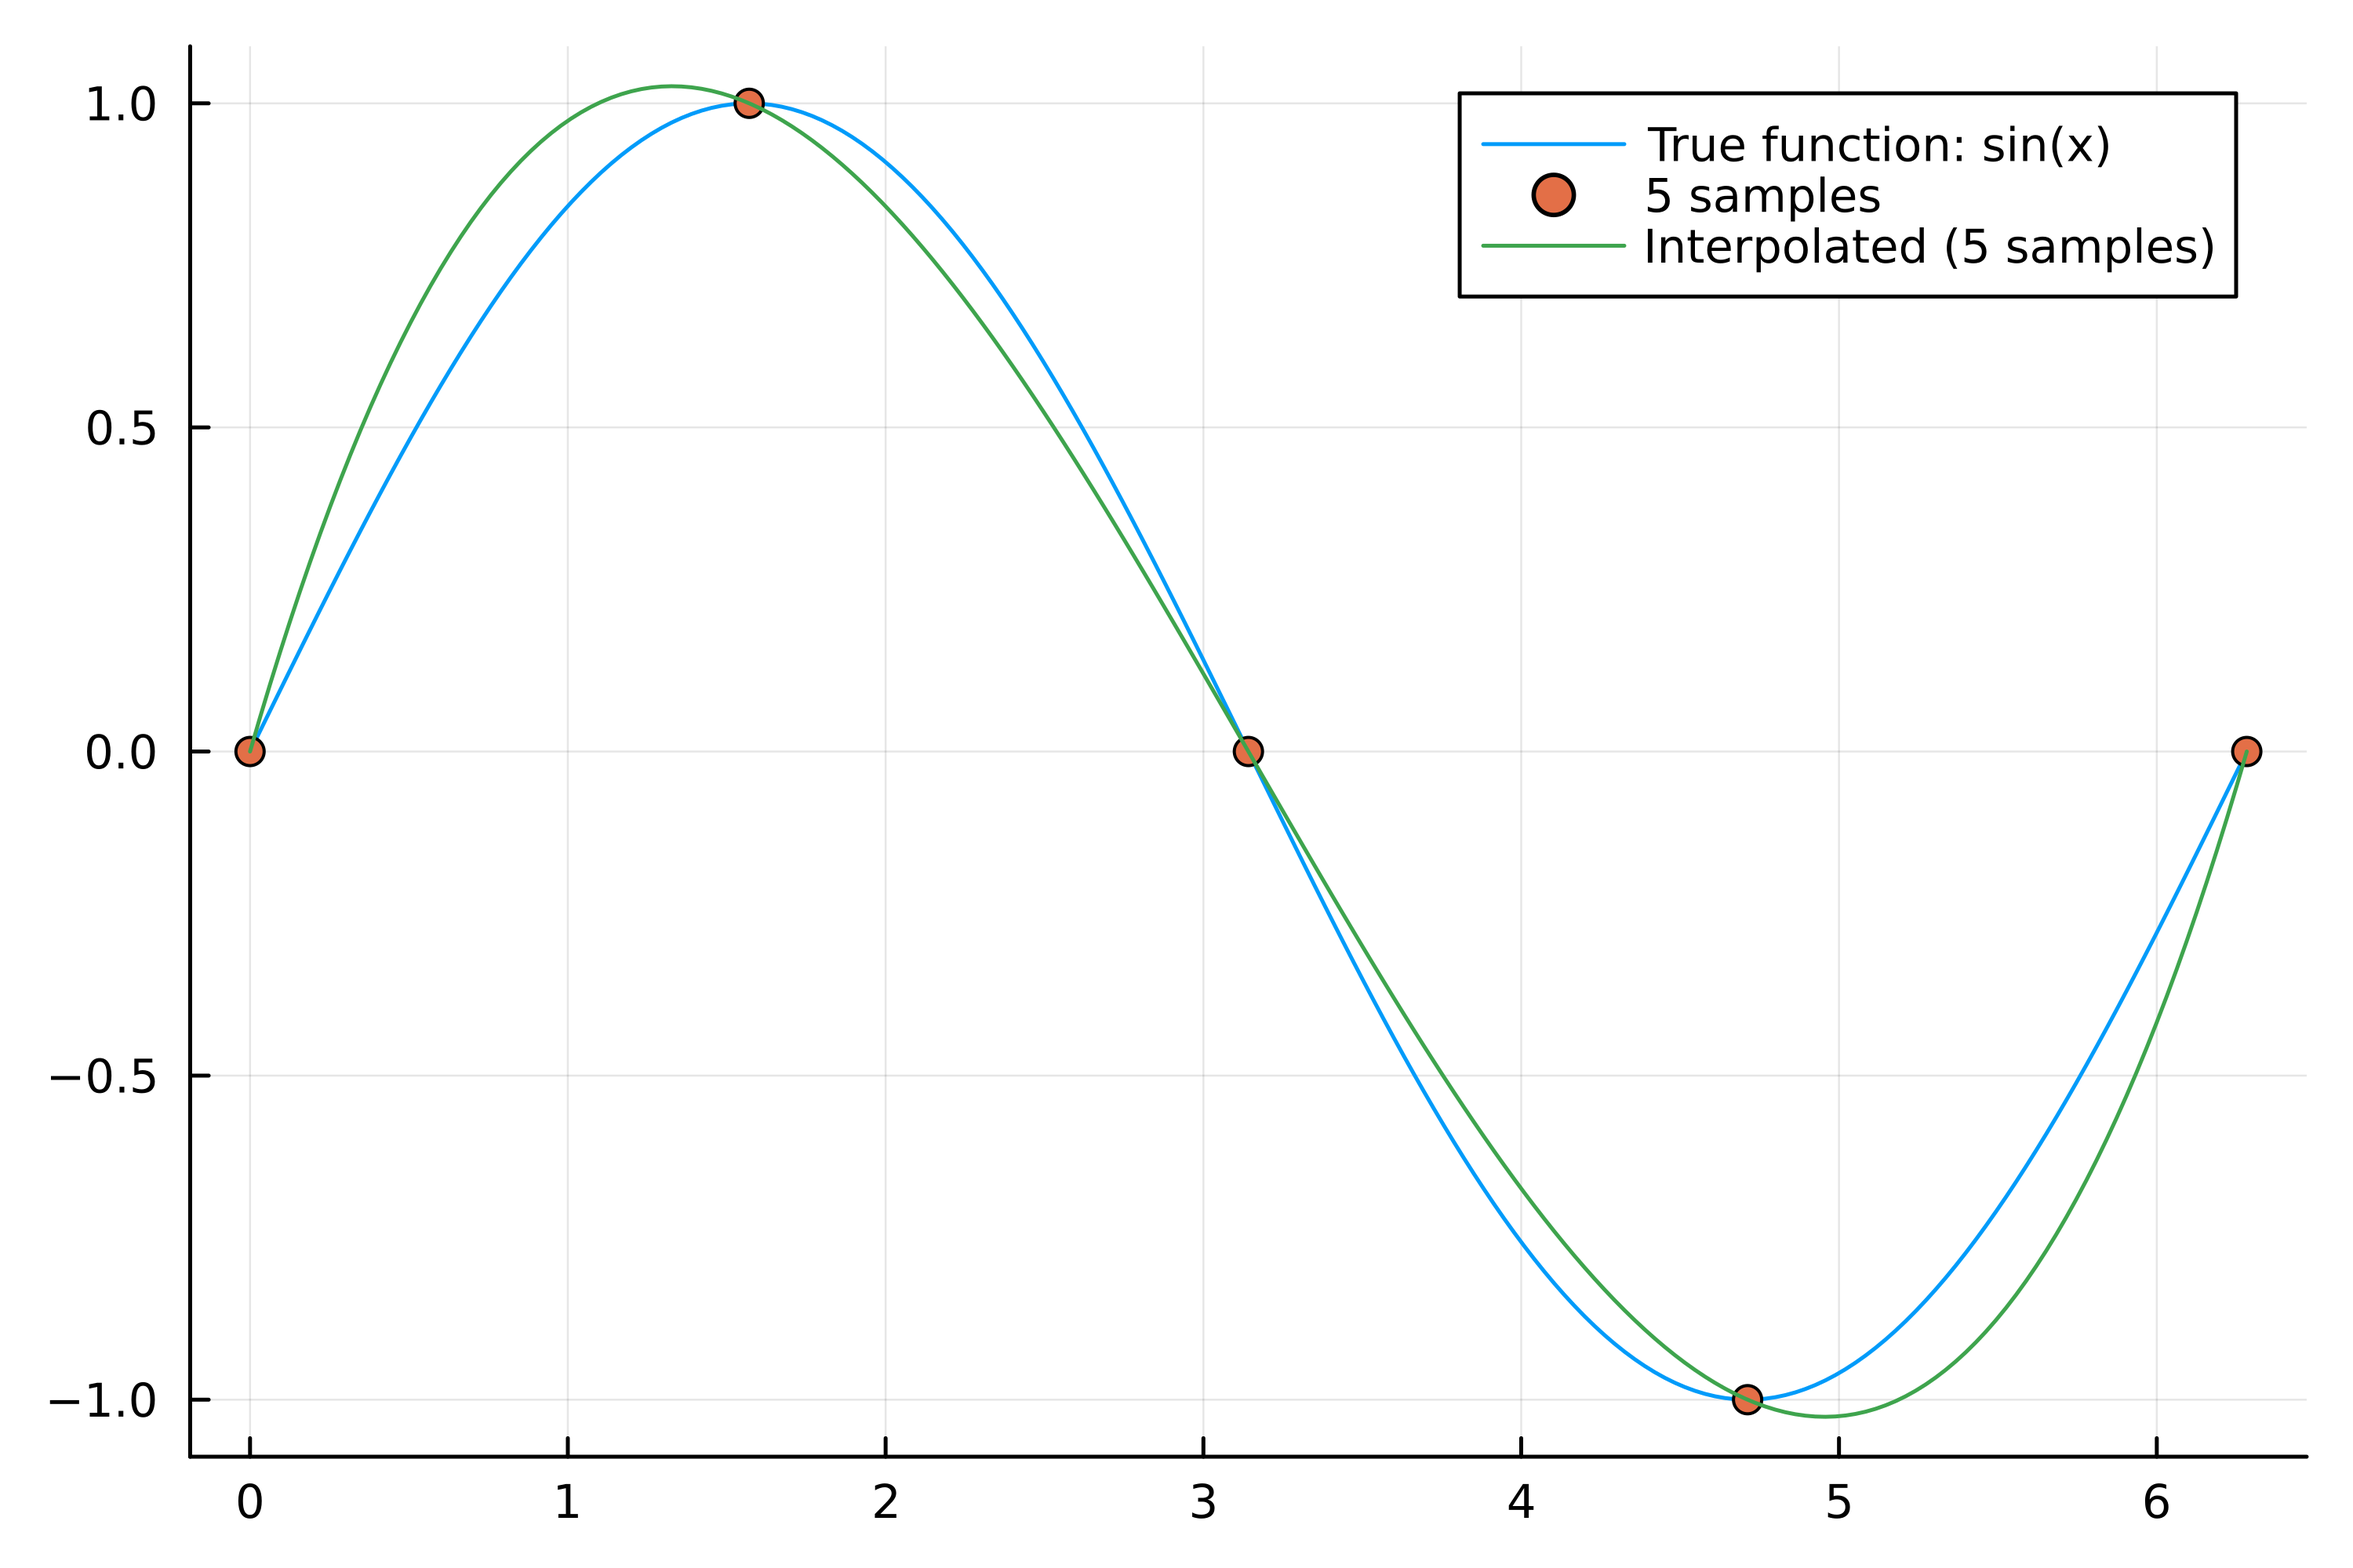
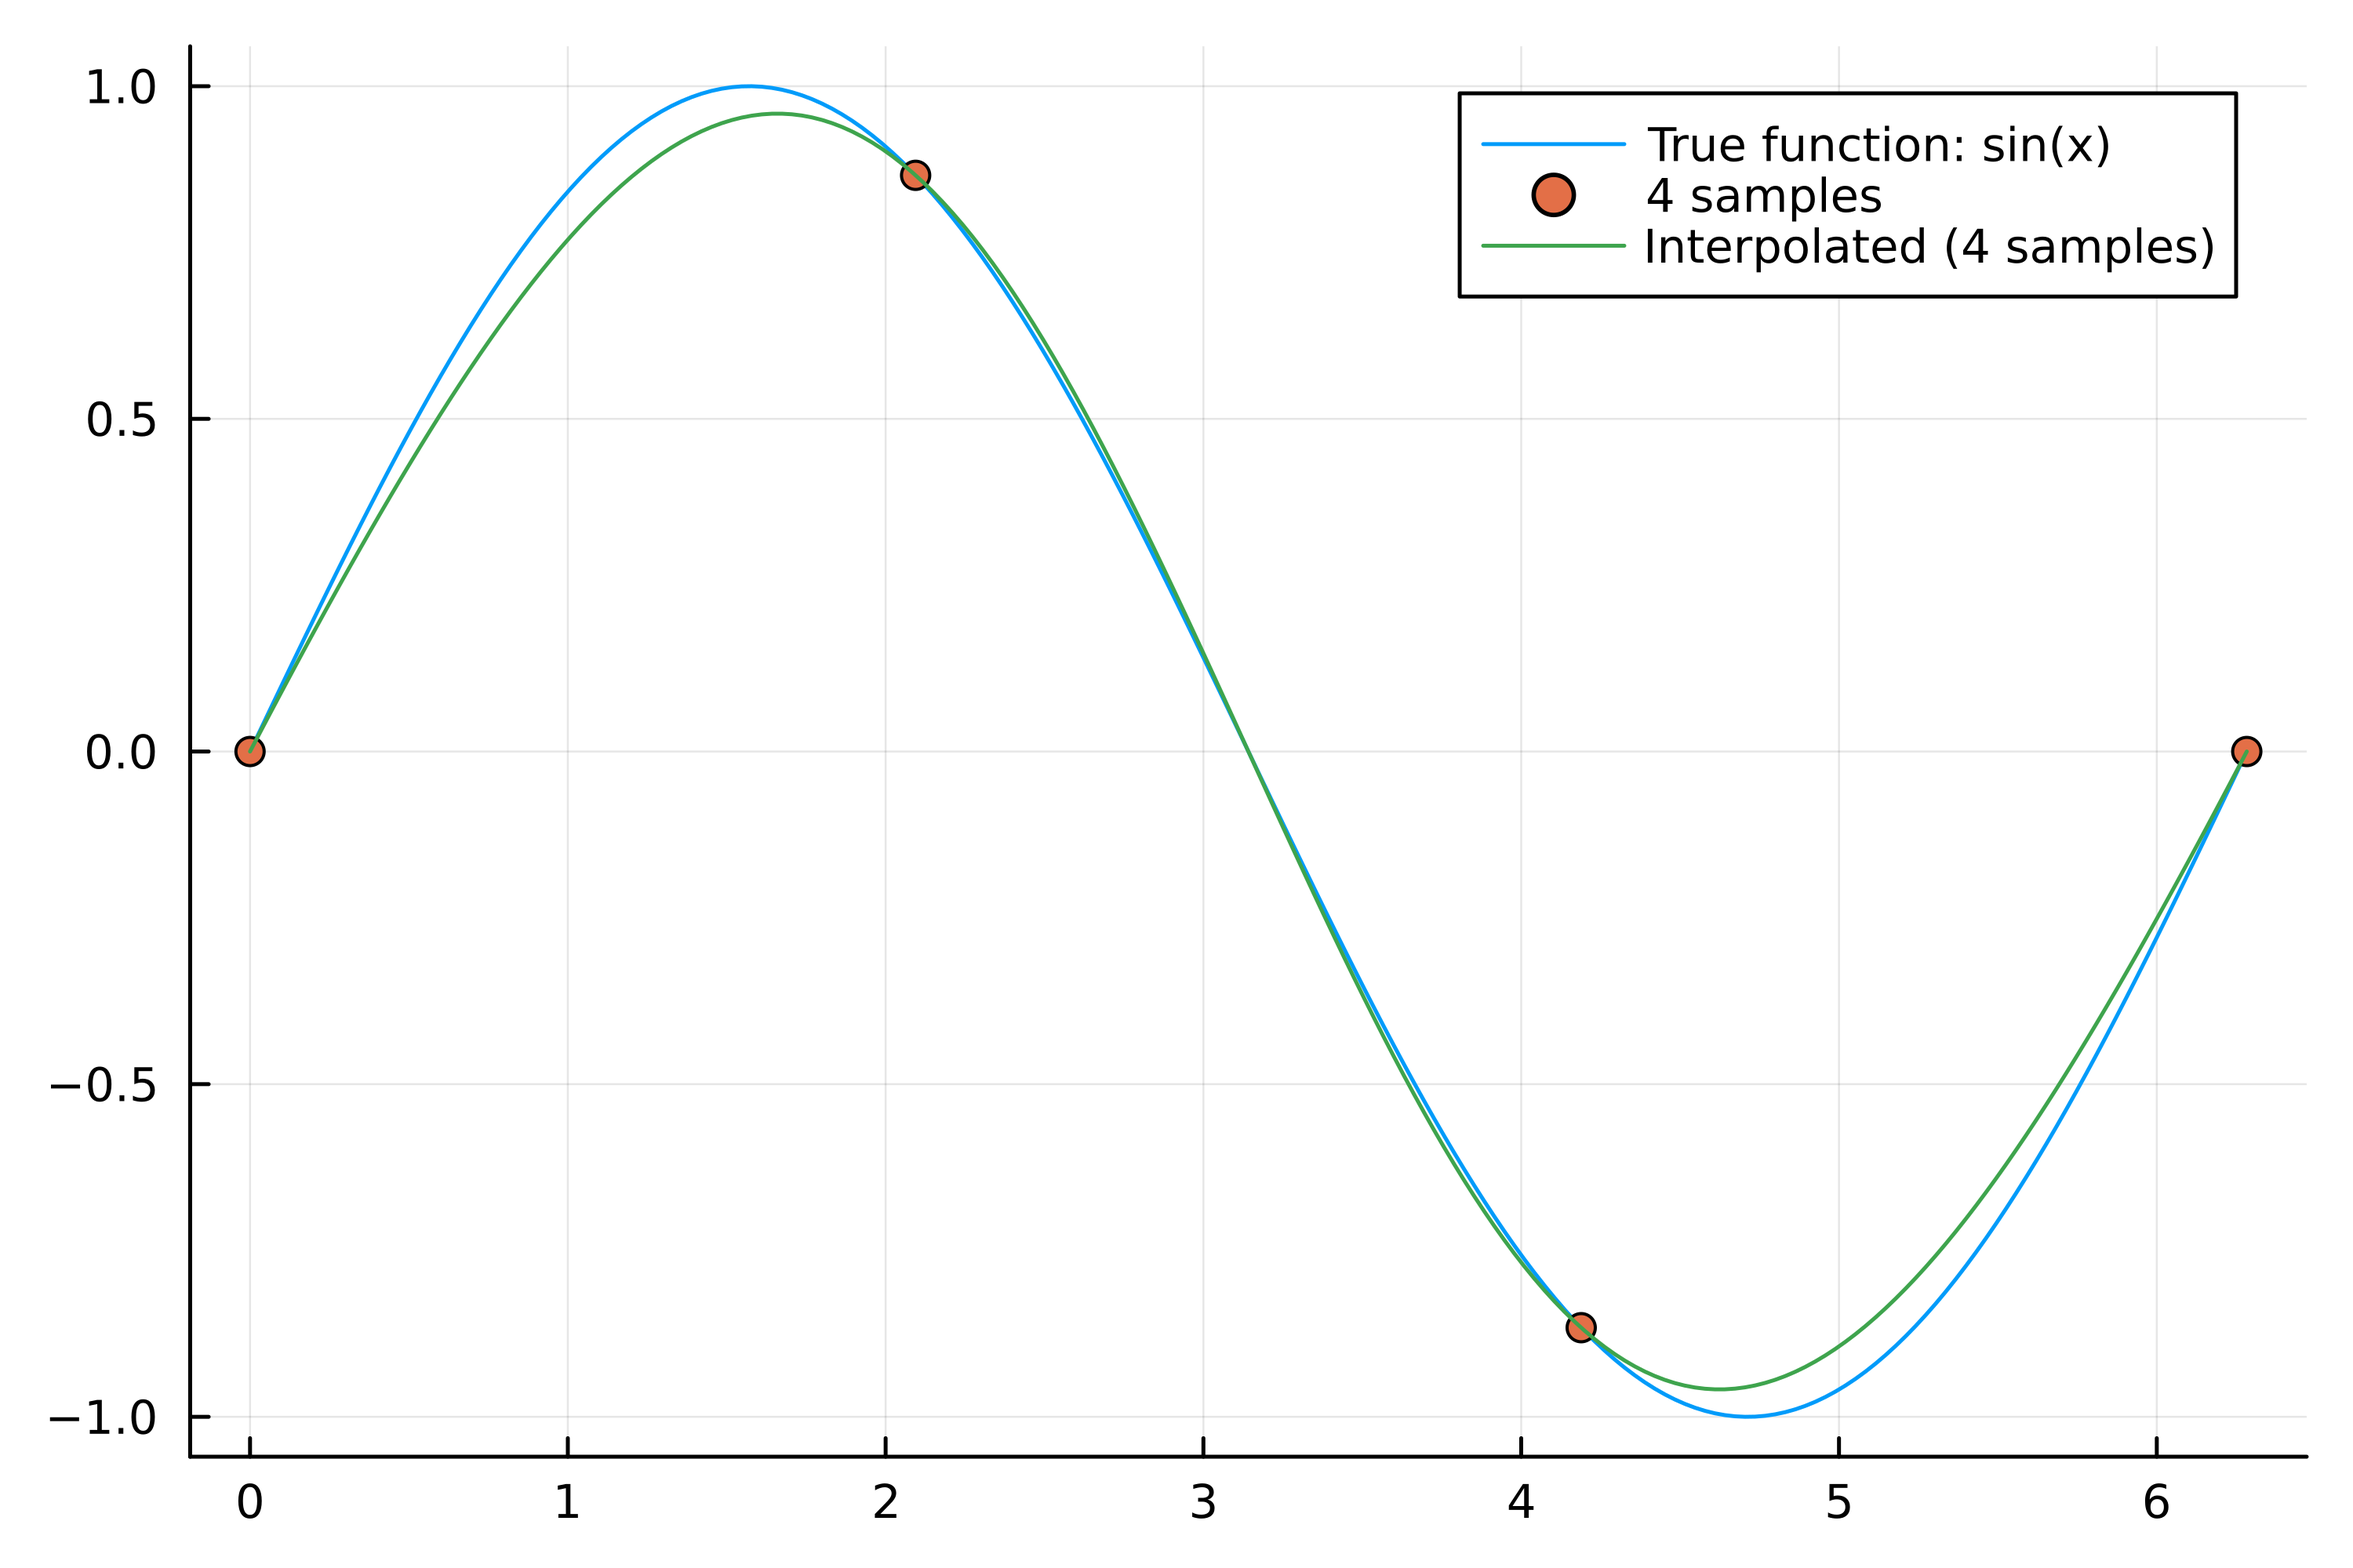
update readme, change 2D demo, :b5 kernel default again

diff --git a/README.md b/README.md
@@ -6,7 +6,7 @@ Smooth interpolation and derivatives from a discrete grid of samples.
 
 ## Why ConvolutionInterpolations.jl?
 
-- **High accuracy by default**: The default `:a4` kernel gives 4th-order convergence with compact support; the `:b`-series kernels reach 7th order for demanding applications
+- **High accuracy by default**: The default `:b5` kernel gives 7th-order convergence
 - **Uniform and non-uniform grids**: Uniform grids use optimized precomputed kernels; non-uniform grids are detected automatically
 - **O(1) evaluation**: Interpolation time is independent of grid size (for uniform), with allocation-free evaluation
 - **N-dimensional**: Separable kernel design scales naturally from 1D to arbitrary dimensions
@@ -27,15 +27,15 @@ Pkg.add("ConvolutionInterpolations")
 using ConvolutionInterpolations
 using Plots
 
-# Sparse sampling: 5 samples sine wave
-x = range(0, 2π, length=5)
+# Sparse sampling: 4 samples sine wave
+x = range(0, 2π, length=4)
 y = sin.(x)
-itp = convolution_interpolation(x, y);  # default :a4 kernel
+itp = convolution_interpolation(x, y);  # default :b5 kernel
 
 x_fine = range(0, 2π, length=200)
 p1 = plot(x_fine, sin.(x_fine), label="True function: sin(x)")
-scatter!(p1, x, y, label="5 samples")
-plot!(p1, x_fine, itp.(x_fine), label="Interpolated (5 samples)")
+scatter!(p1, x, y, label="4 samples")
+plot!(p1, x_fine, itp.(x_fine), label="Interpolated (4 samples)")
 ```
 
 [![1D sine wave interpolation](fig/simple_sine_wave_1D_demonstration.png)](fig/simple_sine_wave_1D_demonstration.png)
@@ -43,26 +43,24 @@ plot!(p1, x_fine, itp.(x_fine), label="Interpolated (5 samples)")
 ### 2D Interpolation
 
 ```julia
-using Random
 using ConvolutionInterpolations
 using Plots
 
-Random.seed!(123)
-xs = range(-2, 2, length=10)
-ys = range(-2, 2, length=10)
-zs = rand(10, 10)
+xs = range(-π, π, length=5)
+ys = range(-π, π, length=5)
+zs = sin.(xs) .* sin.(ys')
 
 itp_2d = convolution_interpolation((xs, ys), zs);
 
-xs_fine = range(-2, 2, length=100)
-ys_fine = range(-2, 2, length=100)
+xs_fine = range(-π, π, length=100)
+ys_fine = range(-π, π, length=100)
 
 p1 = contourf(xs, ys, zs', title="Original Data")
 p2 = contourf(xs_fine, ys_fine, itp_2d.(xs_fine, ys_fine')', title="Interpolated")
 plot(p1, p2, layout=(1,2), size=(800,300))
 ```
 
-[![2D random interpolation](fig/smooth_random_2D_interpolation.png)](fig/smooth_random_2D_interpolation.png)
+[![2D random interpolation](fig/smooth_2D_interpolation.png)](fig/smooth_2D_interpolation.png)
 
 ### Non-uniform Grid Interpolation
 
@@ -90,7 +88,7 @@ itp_d5 = convolution_interpolation(x, y; degree=:b11, derivative=5)  # f⁵(x)
 
 [![Nonuniform derivatives](fig/nonuniform_derivatives.png)](fig/nonuniform_derivatives.png)
 
-Dots are analytical values, solid lines are the b11 interpolant.
+Dots are analytical values, solid lines are the `:b11` interpolant.
 Non-uniform interpolation works in any number of dimensions via tensor products.
 Non-uniform precomputation scales with the number of intervals; for performance-critical applications, non-uniform kernels can be used once to resample data onto a uniform grid, then efficient uniform kernels can be used for repeated evaluation.
 
@@ -121,11 +119,11 @@ Performance across dimensions and kernel families:
 
 **Initialization** (left panel): One-time setup cost in eager mode (`lazy=false`). Ranges from ~2 μs for linear kernels to ~4 s for 4D `:b9`. For kernels higher than `:a1`, setup time scales with the number of boundary points. Benchmarks use 100 grid points per dimension (100, 100², 100³, 100⁴). With `lazy=true`, construction is constant-time (~0.12 ms) regardless of grid size or dimension — see [High-Dimensional Interpolation](#high-dimensional-interpolation) for benchmarks.
 
-**Evaluation** (right panel): Cost per interpolation call with default settings (`:cubic` subgrid, extrapolation wrapper). Representative `:a4` timings:
+**Evaluation** (right panel): Cost per interpolation call with default settings (`:cubic` subgrid, extrapolation wrapper). Representative `:b5` timings:
 
-- 1D: 15 ns
-- 2D: 80 ns
-- 3D: 134 ns
+- 1D: 20 ns
+- 2D: 178 ns
+- 3D: 524 ns
 
 Lower times are achievable with lower order kernels, `:linear` subgrid or by bypassing the extrapolation wrapper (`itp.itp(x)`).
 
@@ -164,10 +162,9 @@ Non-uniform grid kernels
 | `:b11` | 11     | C⁶         | 6              | 7th order   | 8   |
 | `:b13` | 13     | C⁶         | 6              | 7th order   | 9   |
 
-The default kernel is `:a4`, which provides 4th-order accuracy with compact support
-and works across all modes: uniform, non-uniform (via `:n3` fallback), lazy, and
-arbitrary dimensions. For maximum accuracy, use `:b5` or higher b-series kernels,
-which provide 7th-order convergence with additional smoothness.
+The default kernel is `:b5`, which provides 7th-order accuracy and C³ continuity.
+It works across all modes: uniform, non-uniform, derivatives, lazy, and
+arbitrary dimensions.
 
 Gaussian smoothing is also available via the `B` parameter, which does not interpolate data points exactly:
 ```julia
@@ -315,11 +312,10 @@ Benchmarks in the [Speed](#speed) section use `:linear` subgrid.
 
 ## Performance Guidelines
 
-- **Default `:a4` works everywhere**: 4th-order accuracy on uniform grids, falls back to `:n3` on non-uniform grids, fast evaluation, low memory
-- **Use `:b5`+ for maximum accuracy**: 7th-order convergence, smooth high-order derivatives, at the cost of wider stencils
+- **Default `:b5` works everywhere**: 7th-order accuracy on uniform grids, non-uniform grids, high-order derivatives
 - **Use `lazy=true` in high dimensions**: Skips ghost point expansion, reducing construction time and memory
-- **Use `:a0` or `:a1` if construction time is critical**: No boundary handling overhead
-- **Pre-shipped kernel tables**: The default `precompute=101` with `:cubic` or `:quintic` subgrid loads precomputed constants — no disk I/O or computation on first use
+- **Use `:a0`, `:a1`, `:a3` or `:a4` in high dimensions**: Evaluation time of narrower kernels scale better with dimensions
+- **Pre-shipped kernel tables**: The default `precompute=101` with `:cubic` or `:quintic` subgrid loads precomputed constants
 
 ## Technical Background
 
